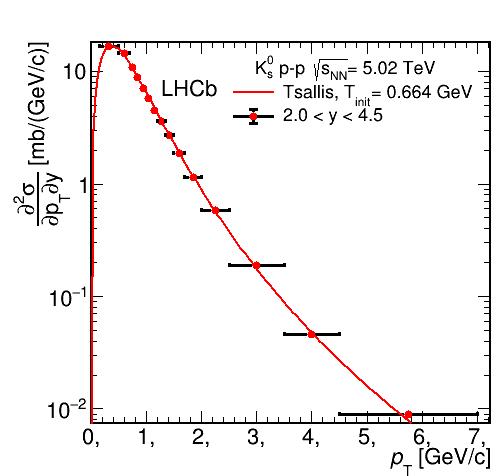
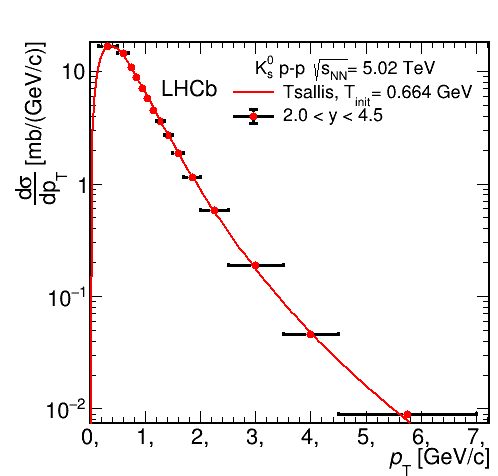
Something

diff --git a/WORK/pp,pPb_5TeV_V0_FINNAL/Fixed/pp_Y_int/ppK.py b/WORK/pp,pPb_5TeV_V0_FINNAL/Fixed/pp_Y_int/ppK.py
@@ -223,7 +223,10 @@ Plot1.GetXaxis().SetTitle('#it{p}_{T} [GeV/c]')
 Plot1.GetXaxis().SetTitleSize(0.05)
 Plot1.GetXaxis().SetTitleOffset(1.00)
 Plot1.GetXaxis().SetLabelSize(0.05)
-Plot1.GetYaxis().SetTitle('#frac{#partial^{2}#sigma}{#partialp_{T}#partialy} [mb/(GeV/c)]')
+
+#Plot1.GetYaxis().SetTitle('#frac{#partial^{2}#sigma}{#partialp_{T}#partialy} [mb/(GeV/c)]')
+Plot1.GetYaxis().SetTitle('#frac{d#sigma}{dp_{T}} [mb/(GeV/c)]')
+
 #Plot1.GetYaxis().SetTitle(' \\frac{\partial \sigma}{ \partial p_{T}} [\\frac{mb}{GeV/c}]')
 #Plot1.GetYaxis().SetTitle(' \\frac{\partial^{2} \sigma}{ \partial p_{T} \partial y} [mb/(GeV/c)]')
 Plot1.GetYaxis().SetTitleSize(0.05)

diff --git a/WORK/pp,pPb_5TeV_V0_FINNAL/Fixed/pp_Y_int/ppL.py b/WORK/pp,pPb_5TeV_V0_FINNAL/Fixed/pp_Y_int/ppL.py
@@ -218,7 +218,7 @@ Plot1.GetXaxis().SetTitleOffset(1.00)
 Plot1.GetXaxis().SetLabelSize(0.05)
 
 #Plot1.GetYaxis().SetTitle(' \\frac{\partial \sigma}{ \partial p_{T}} [\\frac{mb}{GeV/c}]')
-Plot1.GetYaxis().SetTitle('#frac{#partial^{2}#sigma}{#partialp_{T}#partialy} [mb/(GeV/c)]')
+Plot1.GetYaxis().SetTitle('#frac{d#sigma}{dp_{T}} [mb/(GeV/c)]')
 Plot1.GetYaxis().SetTitleSize(0.05)
 Plot1.GetYaxis().SetTitleOffset(1.25)
 Plot1.GetYaxis().SetLabelSize(0.05)

diff --git a/WORK/pp,pPb_5TeV_V0_FINNAL/Fixed/pp_Y_int/ppLb.py b/WORK/pp,pPb_5TeV_V0_FINNAL/Fixed/pp_Y_int/ppLb.py
@@ -226,7 +226,7 @@ Plot1.GetXaxis().SetLabelSize(0.05)
 
 
 #Plot1.GetYaxis().SetTitle(' \\frac{\partial \sigma}{ \partial p_{T}} [\\frac{mb}{GeV/c}]')
-Plot1.GetYaxis().SetTitle('#frac{#partial^{2}#sigma}{#partialp_{T}#partialy} [mb/(GeV/c)]')
+Plot1.GetYaxis().SetTitle('#frac{d#sigma}{dp_{T}} [mb/(GeV/c)]')
 Plot1.GetYaxis().SetTitleSize(0.05)
 Plot1.GetYaxis().SetTitleOffset(1.25)
 Plot1.GetYaxis().SetLabelSize(0.05)
